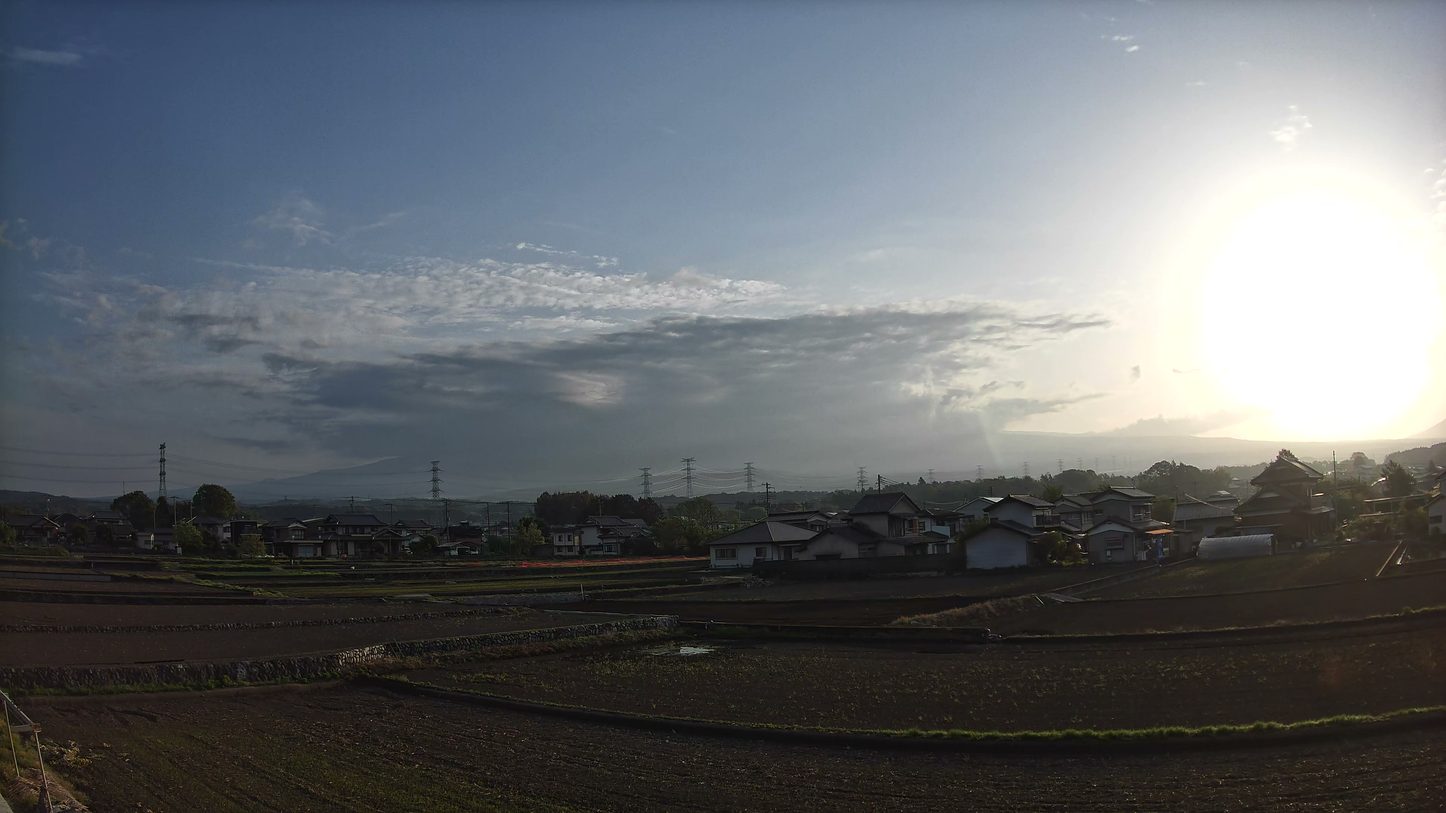
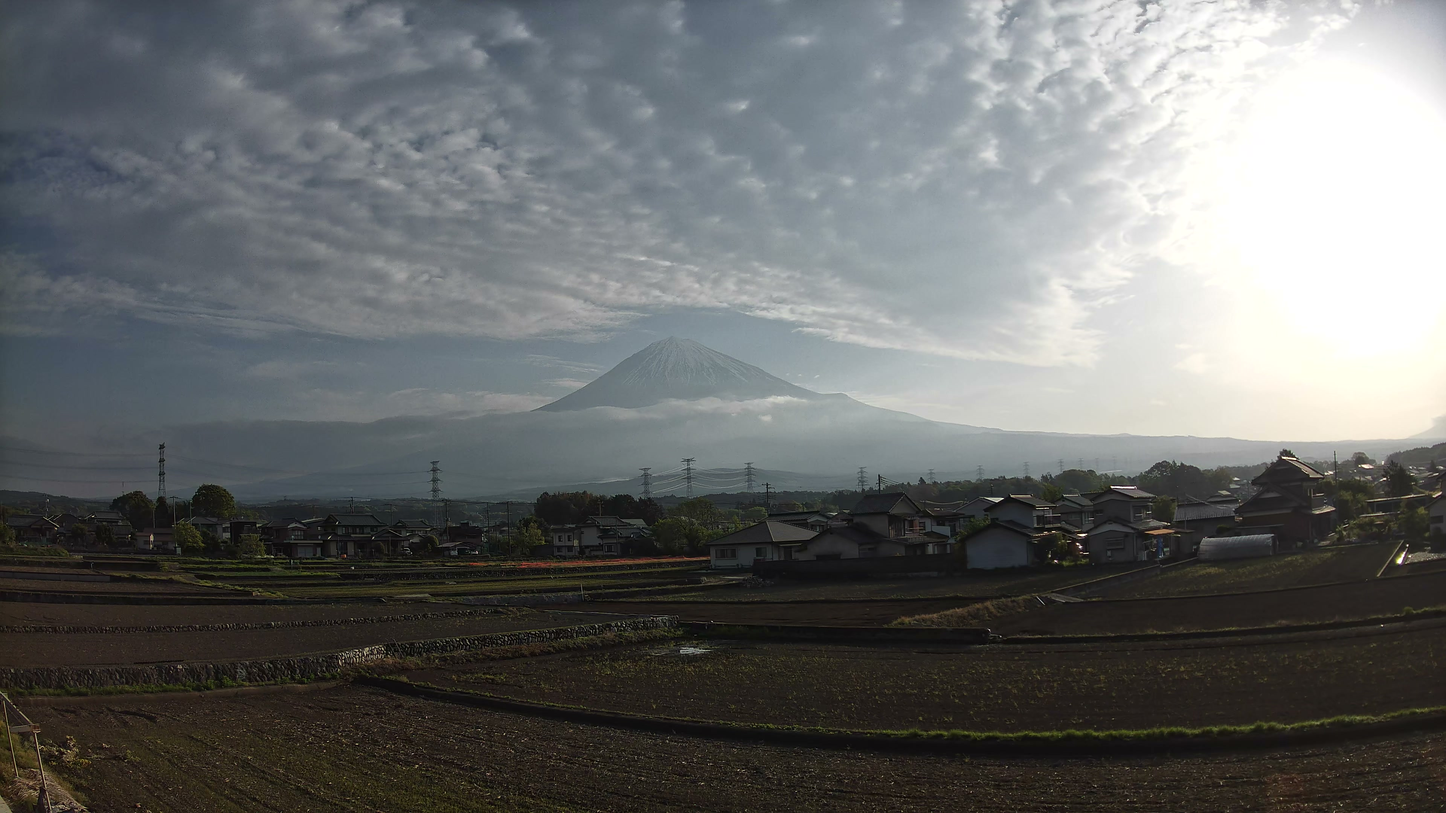
2026-04-20 朝の日記

diff --git a/diary/2026/04.md b/diary/2026/04.md
@@ -11,3 +11,10 @@
 
 ![2026年4月20日の朝](../photos/2026/2026-04-20-朝.jpg)
 
+
+## 2026年4月20日 朝
+
+おはようございます。今日も富士山麓で一日が始まりました。
+
+![2026年4月20日の朝](../photos/2026/2026-04-20-朝.jpg)
+
